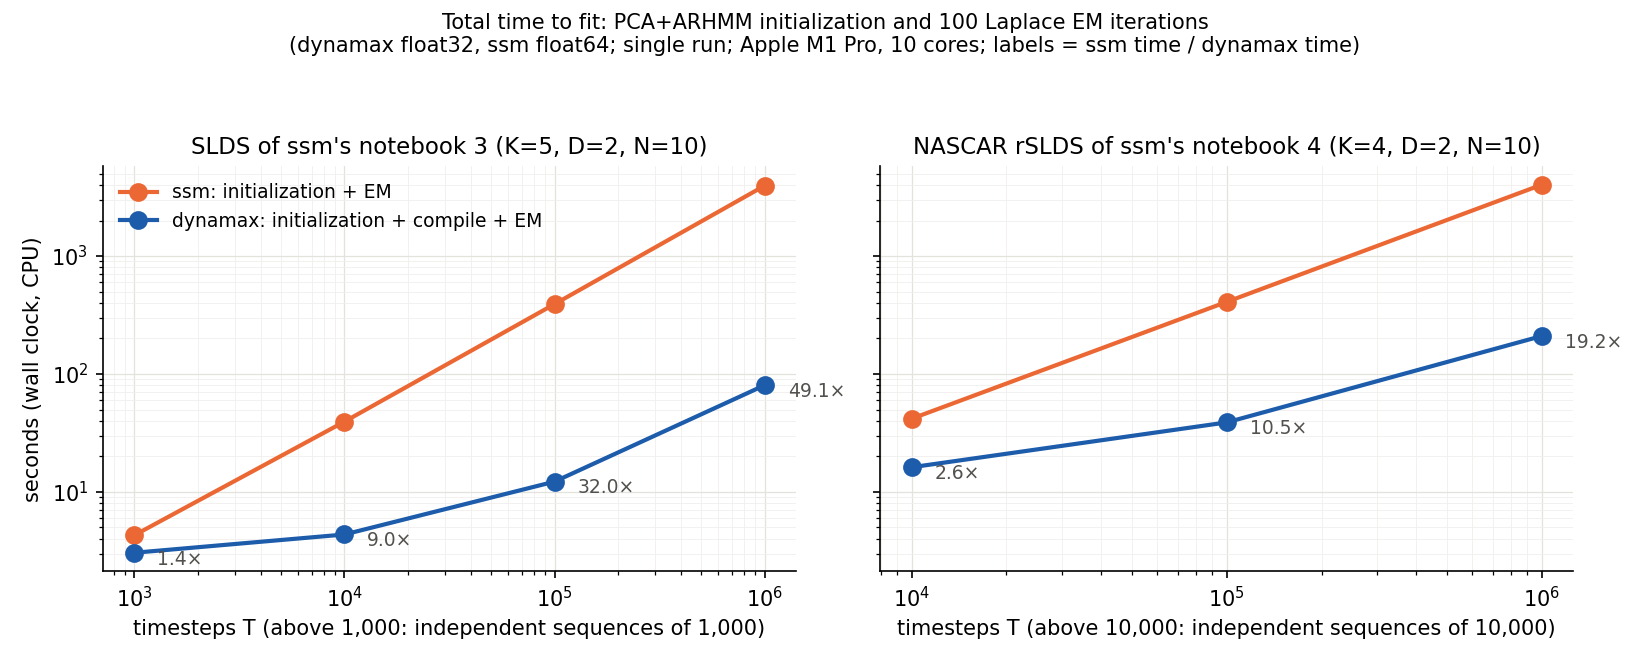
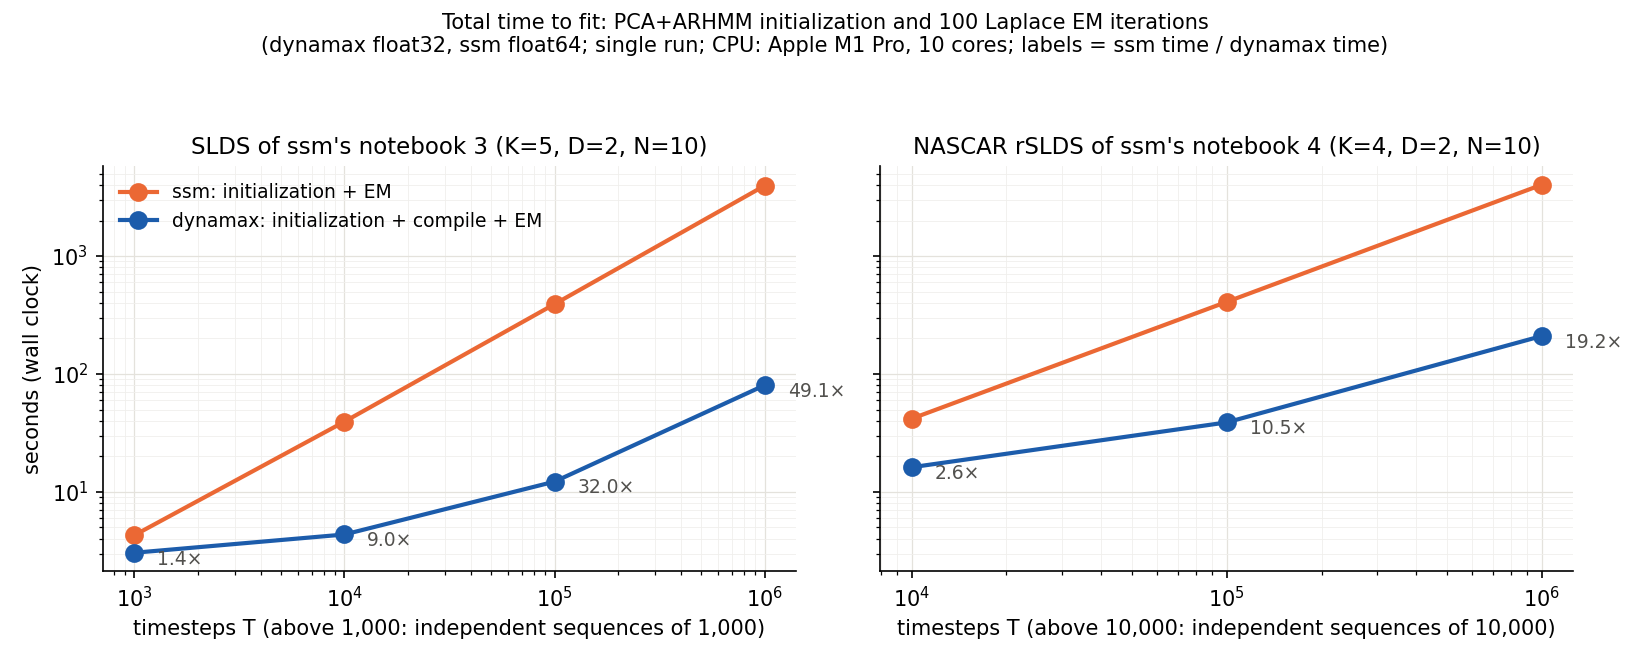
Give each library and device its own results file and drop run.py
Problem: run.py ran both libraries at every size and wrote one
results.jsonl. Re-running one library meant re-running the other,
about 4.5 hours of ssm, or replacing its rows by hand. Running dynamax
on a GPU needed a driver script outside the repository.

Solution: bench_ssm.py and bench_dynamax.py each fit all seven
datasets and write their own file: cpu_ssm.jsonl, cpu_dynamax.jsonl,
and, with --device gpu, gpu_dynamax.jsonl. make_data.py samples all
seven datasets in one call. plot.py reads those files and draws
dynamax on the GPU as a third series when its file is there. run.py
is removed.

results.jsonl is split into the two CPU files with its rows unchanged,
and the plots change only in their labels. The fits of one library now
share a process. Measured both ways, dynamax's scores are identical
and its times agree to within single-run noise, and ssm's fits are no
slower with jax loaded in the process.

Changed region(s): [[0.1545, 0.0303, 0.8345, 0.0909], [0.0, 0.3636, 0.0309, 0.7576]]

diff --git a/benchmarks/slds_vs_ssm/plot.py b/benchmarks/slds_vs_ssm/plot.py
@@ -1,12 +1,15 @@
-"""Plot results.jsonl as three figures, one panel per dataset. Color = library.
+"""Plot the results as three figures, one panel per dataset. Color = library, and the device for dynamax.
+
+Reads cpu_ssm.jsonl and cpu_dynamax.jsonl, and gpu_dynamax.jsonl when it is there (the speed figures then draw
+dynamax on the GPU as a third series).
 
 speed.png: seconds vs timesteps, log-log. Filled circles + solid line = 100 EM iterations (execution only); hollow
 circles + dashed line = compile (dynamax only); triangles + dotted line = initialization (PCA + 50 ARHMM EM
 iterations).
 speed_total.png: total fit time vs timesteps: ssm = initialization + EM iterations; dynamax = initialization
-(including its compile) + EM iterations (including their compile).
-recovery.png: recovery as scored by dynamax/slds/ssm_recovery_test.py: discrete state recovery, continuous state
-recovery, then the parameter recovery scores. Marker = number of timesteps. Within a column each
+(including its compile) + EM iterations (including their compile). The labels are ssm's time over dynamax's.
+recovery.png (CPU fits only): recovery as scored by dynamax/slds/ssm_recovery_test.py: discrete state recovery,
+continuous state recovery, then the parameter recovery scores. Marker = number of timesteps. Within a column each
 number of timesteps has one (ssm, dynamax) pair, joined by a line. Hollow markers are the controls (random
 parameters, no learning). The axis runs from 0 to 1 and every score below 0 is drawn on one line under it. The
 dynamics noise covariance Q is left out of the rSLDS panel.
@@ -23,22 +26,36 @@ HERE = os.path.dirname(os.path.abspath(__file__))
 sys.path.insert(0, HERE)
 from make_data import SEQUENCE_LENGTH  # noqa: E402
 
-rows = [json.loads(line) for line in open(os.path.join(HERE, "results.jsonl"))]
+
+
+def load(name):
+    """The rows of one results file, or none when the file is not there."""
+    file = os.path.join(HERE, name)
+    return [json.loads(line) for line in open(file)] if os.path.exists(file) else []
+
+
+# one series per results file; the GPU series is optional
+ROWS = {"ssm": load("cpu_ssm.jsonl"), "dynamax": load("cpu_dynamax.jsonl"), "dynamax on GPU": load("gpu_dynamax.jsonl")}
+SERIES = {"ssm": "#eb6834", "dynamax": "#1c5cab", "dynamax on GPU": "#6fb1e6"}
+SERIES = {series: color for series, color in SERIES.items() if ROWS[series]}
+COLORS = {library: SERIES[library] for library in ("ssm", "dynamax")}      # the two CPU series of recovery.png
+rows = ROWS["ssm"] + ROWS["dynamax"]
+assert len({r["num_iters"] for series in SERIES for r in ROWS[series]}) == 1, "the files differ in num_iters"
 num_iters = rows[0]["num_iters"]
-COLORS = {"ssm": "#eb6834", "dynamax": "#1c5cab"}
+GPU = f"; GPU: {ROWS['dynamax on GPU'][0]['gpu']}" if "dynamax on GPU" in SERIES else ""
 DATASETS = {"slds": "SLDS of ssm's notebook 3 (K=5, D=2, N=10)",
             "rslds": "NASCAR rSLDS of ssm's notebook 4 (K=4, D=2, N=10)"}
-TOTAL = {"ssm": "initialization + EM", "dynamax": "initialization + compile + EM"}
+TOTAL = {"ssm": "initialization + EM", "dynamax": "initialization + compile + EM",
+         "dynamax on GPU": "initialization + compile + EM"}
 SKIP = {"rslds": {"Q"}}
 FLOOR = -0.05                                               # scores below 0 are drawn here
 MARKERS = dict(zip(sorted({r["num_timesteps"] for r in rows}), "os^Dv"))   # marker = number of timesteps
 BATCH_NOTE = {d: f"above {n:,}: independent sequences of {n:,}" for d, n in SEQUENCE_LENGTH.items()}
 
 
-def select(library, dataset):
-    """The rows of one library on one dataset, by increasing number of timesteps."""
-    return sorted((r for r in rows if (r["library"], r["dataset"]) == (library, dataset)),
-                  key=lambda r: r["num_timesteps"])
+def select(series, dataset):
+    """The rows of one series on one dataset, by increasing number of timesteps."""
+    return sorted((r for r in ROWS[series] if r["dataset"] == dataset), key=lambda r: r["num_timesteps"])
 
 
 def save(fig, name, rect):
@@ -52,22 +69,25 @@ fig, axes = plt.subplots(1, 2, figsize=(11, 4.6), sharey=True)
 total_fig, total_axes = plt.subplots(1, 2, figsize=(11, 4.4), sharey=True)
 for ax, total_ax, (dataset, title) in zip(axes, total_axes, DATASETS.items()):
     totals = {}
-    for library, color in COLORS.items():
-        sel = select(library, dataset)
+    for series, color in SERIES.items():
+        sel = select(series, dataset)
         T = [r["num_timesteps"] for r in sel]
         compile_s = [r.get("init_compile_s", 0) + r.get("fit_compile_s", 0) for r in sel]   # 0 for ssm
-        totals[library] = [r["init_s"] + r["fit_s"] + c for r, c in zip(sel, compile_s)]
+        totals[series] = [r["init_s"] + r["fit_s"] + c for r, c in zip(sel, compile_s)]
         ax.plot(T, [r["fit_s"] for r in sel], marker="o", ms=8, lw=2, color=color,
-                label=f"{library}: {num_iters} EM iterations")
-        if library == "dynamax":
+                label=f"{series}: {num_iters} EM iterations")
+        if series != "ssm":
             ax.plot(T, compile_s, marker="o", ms=8, lw=1.5, ls="--", color=color, mfc="white", mew=1.8,
-                    label=f"{library}: compile")
+                    label=f"{series}: compile")
         ax.plot(T, [r["init_s"] for r in sel], marker="^", ms=8, lw=1.5, ls=":", color=color,
-                label=f"{library}: initialization")
-        total_ax.plot(T, totals[library], marker="o", ms=8, lw=2, color=color, label=f"{library}: {TOTAL[library]}")
-    for t, ssm_s, dynamax_s in zip(T, totals["ssm"], totals["dynamax"]):
-        total_ax.annotate(f"{ssm_s / dynamax_s:.1f}×", (t, dynamax_s), xytext=(11, -3), textcoords="offset points",
-                          ha="left", va="center", fontsize=9, color="#52514e")
+                label=f"{series}: initialization")
+        total_ax.plot(T, totals[series], marker="o", ms=8, lw=2, color=color, label=f"{series}: {TOTAL[series]}")
+    for series in SERIES:
+        if series != "ssm":                                 # ssm's time over this series' time, in its color
+            for t, ssm_s, series_s in zip(T, totals["ssm"], totals[series]):
+                total_ax.annotate(f"{ssm_s / series_s:.1f}×", (t, series_s), xytext=(11, -3), fontsize=9,
+                                  textcoords="offset points", ha="left", va="center",
+                                  color="#52514e" if len(SERIES) == 2 else SERIES[series])
     for a in (ax, total_ax):
         a.set_xscale("log")
         a.set_yscale("log")
@@ -77,15 +97,15 @@ for ax, total_ax, (dataset, title) in zip(axes, total_axes, DATASETS.items()):
         a.grid(True, which="minor", color="#f0efec", lw=0.4)
         a.set_axisbelow(True)
         a.spines[["top", "right"]].set_visible(False)
-axes[0].set_ylabel("seconds (wall clock, CPU)")
-total_axes[0].set_ylabel("seconds (wall clock, CPU)")
+axes[0].set_ylabel("seconds (wall clock)")
+total_axes[0].set_ylabel("seconds (wall clock)")
 fig.legend(*axes[1].get_legend_handles_labels(), loc="lower center", ncol=3, fontsize=8.5, frameon=False,
            bbox_to_anchor=(0.5, -0.02))
 total_axes[0].legend(loc="upper left", fontsize=9, frameon=False)
 fig.suptitle(f"SLDS Laplace EM: dynamax vs ssm, {num_iters} iterations from each library's PCA+ARHMM initialization\n"
-             f"(dynamax float32, ssm float64; single run; Apple M1 Pro, 10 cores)", fontsize=10)
+             f"(dynamax float32, ssm float64; single run; CPU: Apple M1 Pro, 10 cores{GPU})", fontsize=10)
 total_fig.suptitle(f"Total time to fit: PCA+ARHMM initialization and {num_iters} Laplace EM iterations\n"
-                   f"(dynamax float32, ssm float64; single run; Apple M1 Pro, 10 cores; "
+                   f"(dynamax float32, ssm float64; single run; CPU: Apple M1 Pro, 10 cores{GPU}; "
                    f"labels = ssm time / dynamax time)", fontsize=10)
 save(fig, "speed.png", (0, 0.14, 1, 0.94))
 save(total_fig, "speed_total.png", (0, 0, 1, 0.93))
@@ -131,5 +151,5 @@ handles += [Line2D([], [], marker="o", ms=11, ls="none", color="#52514e", mfc="n
                    label="hollow: control (random parameters, no learning)")]
 fig.legend(handles=handles, loc="lower center", ncol=len(handles), fontsize=9, frameon=False, bbox_to_anchor=(0.5, 0.0))
 fig.suptitle(f"Recovery of the true states and parameters after PCA+ARHMM initialization and {num_iters} Laplace EM "
-             f"iterations (single run per point)", fontsize=10)
+             f"iterations (CPU fits; single run per point)", fontsize=10)
 save(fig, "recovery.png", (0, 0.07, 1, 0.96))

diff --git a/benchmarks/slds_vs_ssm/bench_ssm.py b/benchmarks/slds_vs_ssm/bench_ssm.py
@@ -1,13 +1,14 @@
-"""Time lindermanlab/ssm's PCA+ARHMM initialization and Laplace EM on a saved dataset.
+"""Time lindermanlab/ssm's PCA+ARHMM initialization and Laplace EM on the benchmark's datasets.
 
-Usage: <python with lindermanlab/ssm installed> bench_ssm.py <slds|rslds> <num_timesteps> <num_iters>
-Prints one JSON line. The timed run loads numba's saved copies of ssm's kernels (run.py makes sure they exist); the
-first fit in a new environment takes about 12 s longer, to compile them. Outside the timed region the fit is scored
-by the recovery test's own function, and so is a control: random parameters and no learning, with the states
-inferred by approximate_posterior at its defaults. The control's parameters are those ssm's constructor draws at
-random, except the transition matrix: ssm draws it as 0.95 I plus noise, which is also how the true one was drawn,
-so each of its rows is drawn from a flat Dirichlet instead, as dynamax's prior does. The control's seed differs from
-the seeds that built the true models (0 and 12345), which would reproduce some of the true parameters.
+Usage: <python with lindermanlab/ssm installed> bench_ssm.py
+Fits every dataset of make_data.py, smallest first, and writes cpu_ssm.jsonl, one JSON line per dataset. ssm runs on
+the CPU in float64. A short fit before the timed ones compiles ssm's numba kernels (about 12 s in a new
+environment), so no timed fit pays for it. Outside the timed region each fit is scored by the recovery test's own
+function, and so is a control: random parameters and no learning, with the states inferred by approximate_posterior
+at its defaults. The control's parameters are those ssm's constructor draws at random, except the transition matrix:
+ssm draws it as 0.95 I plus noise, which is also how the true one was drawn, so each of its rows is drawn from a
+flat Dirichlet instead, as dynamax's prior does. The control's seed differs from the seeds that built the true
+models (0 and 12345), which would reproduce some of the true parameters.
 """
 import json
 import os
@@ -24,12 +25,14 @@ HERE = os.path.dirname(os.path.abspath(__file__))
 sys.path.insert(0, HERE)
 sys.path.insert(0, os.path.join(HERE, "..", "..", "dynamax", "slds", "fixtures"))
 from export_ssm_fixtures import NOTEBOOKS, natural_params  # noqa: E402
-from make_data import path  # noqa: E402
+from make_data import SIZES, path  # noqa: E402
 
+RESULTS = os.path.join(HERE, "cpu_ssm.jsonl")
+NUM_ITERS = 100                                           # the same as in bench_dynamax.py
 CONTROL_SEED = 1
 
 
-def run(fit_model, datas, num_iters):
+def fit(fit_model, datas, num_iters):
     npr.seed(0)
     model = fit_model()
     start = time.perf_counter()
@@ -42,12 +45,12 @@ def run(fit_model, datas, num_iters):
     return init_s, fit_s, model, q
 
 
-if __name__ == "__main__":
-    name, num_timesteps, num_iters = sys.argv[1], int(sys.argv[2]), int(sys.argv[3])
+def bench(name, num_timesteps, num_iters=NUM_ITERS):
+    """One row of results: the times of one fit, and the recovery scores of the fit and of the control."""
     saved = np.load(path(name, num_timesteps))
     datas = list(saved[f"recovery/{name}/y"])
     _, fit_model = NOTEBOOKS[name][0]()
-    init_s, fit_s, model, q = run(fit_model, datas, num_iters)
+    init_s, fit_s, model, q = fit(fit_model, datas, num_iters)
 
     npr.seed(CONTROL_SEED)
     control = fit_model()
@@ -56,14 +59,26 @@ if __name__ == "__main__":
     _, control_q = control.approximate_posterior(datas, method="laplace_em",
                                                  variational_posterior="structured_meanfield", verbose=0)
 
-    from dynamax.slds.ssm_recovery_test import recovery  # noqa: E402    imports jax, so only after the timed fit
+    from dynamax.slds.ssm_recovery_test import recovery   # imports jax, so only after the first timed fit
 
     def score(model, q):
         x_hat = q.mean_continuous_states
         z_hat = [model.most_likely_states(x, y) for x, y in zip(x_hat, datas)]
         return recovery(name, natural_params(model), np.concatenate(x_hat), np.concatenate(z_hat), saved)
 
-    print(json.dumps({
-        "library": "ssm", "dataset": name, "num_timesteps": num_timesteps, "num_iters": num_iters,
-        "init_s": init_s, "fit_s": fit_s, "recovery": score(model, q), "control": score(control, control_q),
-    }))
+    return {"library": "ssm", "dataset": name, "num_timesteps": num_timesteps, "num_iters": num_iters,
+            "init_s": init_s, "fit_s": fit_s, "recovery": score(model, q), "control": score(control, control_q)}
+
+
+if __name__ == "__main__":
+    grid = sorted((T, name) for name in SIZES for T in SIZES[name])   # cheap fits first
+    num_timesteps, name = grid[0]
+    warm_up_data = list(np.load(path(name, num_timesteps))[f"recovery/{name}/y"])
+    fit(NOTEBOOKS[name][0]()[1], warm_up_data, 2)                     # compiles numba's kernels
+    open(RESULTS, "w").close()
+    for num_timesteps, name in grid:
+        row = bench(name, num_timesteps)
+        with open(RESULTS, "a") as f:
+            f.write(json.dumps(row) + "\n")
+        print(f"ssm {name:6s} T={num_timesteps:<8d} init {row['init_s']:7.2f}s  fit {row['fit_s']:8.2f}s  "
+              f"discrete state recovery {row['recovery']['discrete state recovery']:.3f}", flush=True)

diff --git a/benchmarks/slds_vs_ssm/bench_dynamax.py b/benchmarks/slds_vs_ssm/bench_dynamax.py
@@ -1,26 +1,37 @@
-"""Time dynamax's PCA+ARHMM initialization and Laplace EM on a saved dataset, in float32 (JAX's default).
+"""Time dynamax's PCA+ARHMM initialization and Laplace EM on the benchmark's datasets, in float32 (JAX's default).
 
-Usage: python bench_dynamax.py <slds|rslds> <num_timesteps> <num_iters>
-Prints one JSON line. initialize and fit_em are wrapped in an outer jax.jit and compiled ahead of time
-(jit(...).lower(...).compile(): tracing, lowering and XLA compilation, timed as *_compile_s); the executable is
-then run once (timed as *_s). Outside the timed region the fit is scored by the recovery test's own function, and so
-is a control: parameters drawn from their priors by initialize(method="prior") and no learning, with the states
-inferred by approximate_posterior at its defaults.
+Usage: python bench_dynamax.py [--device cpu|gpu]
+Fits every dataset of make_data.py, smallest first, on the CPU (the default) or on the GPU, and writes
+cpu_dynamax.jsonl or gpu_dynamax.jsonl, one JSON line per dataset. initialize and fit_em are wrapped in an outer
+jax.jit and compiled ahead of time (jit(...).lower(...).compile(): tracing, lowering and XLA compilation, timed as
+*_compile_s); the executable is then run once (timed as *_s). Outside the timed region each fit is scored by the
+recovery test's own function, and so is a control: parameters drawn from their priors by initialize(method="prior")
+and no learning, with the states inferred by approximate_posterior at its defaults.
 """
+import argparse
 import json
 import os
 import sys
 import time
 
-import jax
-import jax.numpy as jnp
-import jax.random as jr
-import numpy as np
+parser = argparse.ArgumentParser()
+parser.add_argument("--device", choices=["cpu", "gpu"], default="cpu")
+DEVICE = parser.parse_args().device
+os.environ["JAX_PLATFORMS"] = {"cpu": "cpu", "gpu": "cuda"}[DEVICE]   # read when jax is imported
 
-from dynamax.slds.ssm_recovery_test import MODELS, natural_params, recovery
+import jax  # noqa: E402
+import jax.numpy as jnp  # noqa: E402
+import jax.random as jr  # noqa: E402
+import numpy as np  # noqa: E402
 
-sys.path.insert(0, os.path.dirname(os.path.abspath(__file__)))
-from make_data import path  # noqa: E402
+from dynamax.slds.ssm_recovery_test import MODELS, natural_params, recovery  # noqa: E402
+
+HERE = os.path.dirname(os.path.abspath(__file__))
+sys.path.insert(0, HERE)
+from make_data import SIZES, path  # noqa: E402
+
+RESULTS = os.path.join(HERE, f"{DEVICE}_dynamax.jsonl")
+NUM_ITERS = 100                                           # the same as in bench_ssm.py
 
 
 def timed(fn):
@@ -29,8 +40,8 @@ def timed(fn):
     return out, time.perf_counter() - start
 
 
-if __name__ == "__main__":
-    name, num_timesteps, num_iters = sys.argv[1], int(sys.argv[2]), int(sys.argv[3])
+def bench(name, num_timesteps, num_iters=NUM_ITERS):
+    """One row of results: the times of one fit, and the recovery scores of the fit and of the control."""
     saved = np.load(path(name, num_timesteps))
     emissions = jnp.asarray(saved[f"recovery/{name}/y"])
     model = MODELS[name]()
@@ -56,8 +67,19 @@ if __name__ == "__main__":
         return recovery(name, natural_params(params), x_hat.reshape(-1, x_hat.shape[-1]),
                         np.asarray(z_hat).reshape(-1), saved)
 
-    print(json.dumps({
-        "library": "dynamax", "dataset": name, "num_timesteps": num_timesteps, "num_iters": num_iters,
-        "init_compile_s": init_compile, "init_s": init_run, "fit_compile_s": fit_compile, "fit_s": fit_run,
-        "recovery": score(fitted, posterior), "control": score(control, control_posterior),
-    }))
+    row = {"library": "dynamax", "dataset": name, "num_timesteps": num_timesteps, "num_iters": num_iters,
+           "init_compile_s": init_compile, "init_s": init_run, "fit_compile_s": fit_compile, "fit_s": fit_run,
+           "recovery": score(fitted, posterior), "control": score(control, control_posterior)}
+    if DEVICE == "gpu":
+        row["gpu"] = jax.devices()[0].device_kind
+    return row
+
+
+if __name__ == "__main__":
+    open(RESULTS, "w").close()
+    for num_timesteps, name in sorted((T, name) for name in SIZES for T in SIZES[name]):   # cheap fits first
+        row = bench(name, num_timesteps)
+        with open(RESULTS, "a") as f:
+            f.write(json.dumps(row) + "\n")
+        print(f"dynamax {name:6s} T={num_timesteps:<8d} init {row['init_s']:7.2f}s  fit {row['fit_s']:8.2f}s  "
+              f"discrete state recovery {row['recovery']['discrete state recovery']:.3f}", flush=True)

diff --git a/benchmarks/slds_vs_ssm/make_data.py b/benchmarks/slds_vs_ssm/make_data.py
@@ -1,9 +1,12 @@
-"""Sample the two notebook models for a given number of timesteps, with lindermanlab/ssm.
+"""Sample the benchmark's datasets from the two notebook models, with lindermanlab/ssm.
 
-Usage: <python with lindermanlab/ssm installed> make_data.py <slds|rslds> <num_timesteps>
-Writes scratch_data/<name>_T<num_timesteps>.npz, keyed as ssm's saved outputs for the recovery test: recovery/<name>/y
-(emissions, (num_sequences, sequence length, N) float64), z and x (the true states and latents, the sequences joined
-end to end), and true/<letter> (the true parameters, named by the letters of dynamax's model docstrings).
+Usage: <python with lindermanlab/ssm installed> make_data.py
+Each model has its own sizes (SIZES): the SLDS from the notebook's 1000 steps up to 1M, the NASCAR rSLDS from the
+notebook's 10000 steps up to 1M. Sizes above the notebook's are batches of independent sequences of the notebook's
+length. Writes scratch_data/<name>_T<num_timesteps>.npz, keyed as ssm's saved outputs for the recovery test:
+recovery/<name>/y (emissions, (num_sequences, sequence length, N) float64), z and x (the true states and latents,
+the sequences joined end to end), and true/<letter> (the true parameters, named by the letters of dynamax's model
+docstrings).
 The models are those of ssm's notebooks 3-Switching-Linear-Dynamical-System.ipynb and 4-Recurrent-SLDS.ipynb (which
 docs/notebooks/slds/{slds,rslds}.ipynb port), built by dynamax/slds/fixtures/export_ssm_fixtures.py with the
 notebooks' own code and seeds and sampled by ssm, so the benchmark data do not depend on dynamax. The first sequence
@@ -26,6 +29,7 @@ def path(name, num_timesteps):
 # this: a single long NASCAR sequence drifts away from the track (max |x| about 7 at T=10k, the notebook's length,
 # far more at 100k and 1M). The SLDS follows the same rule.
 SEQUENCE_LENGTH = {"slds": 1000, "rslds": 10000}
+SIZES = {"slds": [1000, 10000, 100000, 1000000], "rslds": [10000, 100000, 1000000]}
 
 
 def sample(model, name, num_timesteps):
@@ -41,12 +45,13 @@ def sample(model, name, num_timesteps):
 if __name__ == "__main__":
     sys.path.insert(0, os.path.join(HERE, "..", "..", "dynamax", "slds", "fixtures"))
     from export_ssm_fixtures import NOTEBOOKS, natural_params
-    name, num_timesteps = sys.argv[1], int(sys.argv[2])
-    model = NOTEBOOKS[name][0]()[0]
-    z, x, y = sample(model, name, num_timesteps)
-    out = {"y": np.asarray(y, dtype=np.float64), "z": np.asarray(z), "x": np.asarray(x, dtype=np.float64),
-           **{f"true/{k}": np.asarray(v) for k, v in natural_params(model).items()}}
-    os.makedirs(os.path.dirname(path(name, num_timesteps)), exist_ok=True)
-    np.savez(path(name, num_timesteps), **{f"recovery/{name}/{k}": v for k, v in out.items()})
-    print(path(name, num_timesteps), y.shape, "finite:", bool(np.isfinite(y).all()),
-          "max|x|:", float(np.abs(x).max()), "states:", np.bincount(np.asarray(z)).tolist())
+    for name, sizes in SIZES.items():
+        for num_timesteps in sizes:
+            model = NOTEBOOKS[name][0]()[0]
+            z, x, y = sample(model, name, num_timesteps)
+            out = {"y": np.asarray(y, dtype=np.float64), "z": np.asarray(z), "x": np.asarray(x, dtype=np.float64),
+                   **{f"true/{k}": np.asarray(v) for k, v in natural_params(model).items()}}
+            os.makedirs(os.path.dirname(path(name, num_timesteps)), exist_ok=True)
+            np.savez(path(name, num_timesteps), **{f"recovery/{name}/{k}": v for k, v in out.items()})
+            print(path(name, num_timesteps), y.shape, "finite:", bool(np.isfinite(y).all()),
+                  "max|x|:", float(np.abs(x).max()), "states:", np.bincount(np.asarray(z)).tolist())

diff --git a/benchmarks/slds_vs_ssm/README.md b/benchmarks/slds_vs_ssm/README.md
@@ -1,4 +1,4 @@
-We benchmark SLDS and rSLDS fitting in Dynamax against [`lindermanlab/ssm`](https://github.com/lindermanlab/ssm): speed, and recovery of the true states and parameters. `results.jsonl` holds the committed results.
+We benchmark SLDS and rSLDS fitting in Dynamax against [`lindermanlab/ssm`](https://github.com/lindermanlab/ssm): speed, and recovery of the true states and parameters. Each library and device has its own results file: `cpu_ssm.jsonl`, `cpu_dynamax.jsonl`, and, when Dynamax is also run on a GPU, `gpu_dynamax.jsonl`.
 
 To reproduce the results and the three plots, from the repository root:
 
@@ -9,6 +9,9 @@ pip install -e '.[dev]'
 pip install cython
 pip install --no-build-isolation "git+https://github.com/lindermanlab/ssm.git@eb6c8aa"
 
-python benchmarks/slds_vs_ssm/run.py      # about 4.5 hours; writes the datasets and results.jsonl
-python benchmarks/slds_vs_ssm/plot.py     # writes speed.png, speed_total.png and recovery.png
+python benchmarks/slds_vs_ssm/make_data.py                    # samples the seven datasets with ssm
+python benchmarks/slds_vs_ssm/bench_ssm.py                    # about 4.5 hours; writes cpu_ssm.jsonl
+python benchmarks/slds_vs_ssm/bench_dynamax.py                # about 10 minutes; writes cpu_dynamax.jsonl
+python benchmarks/slds_vs_ssm/bench_dynamax.py --device gpu   # optional, on a machine with a GPU; writes gpu_dynamax.jsonl
+python benchmarks/slds_vs_ssm/plot.py                         # writes speed.png, speed_total.png and recovery.png
 ```
